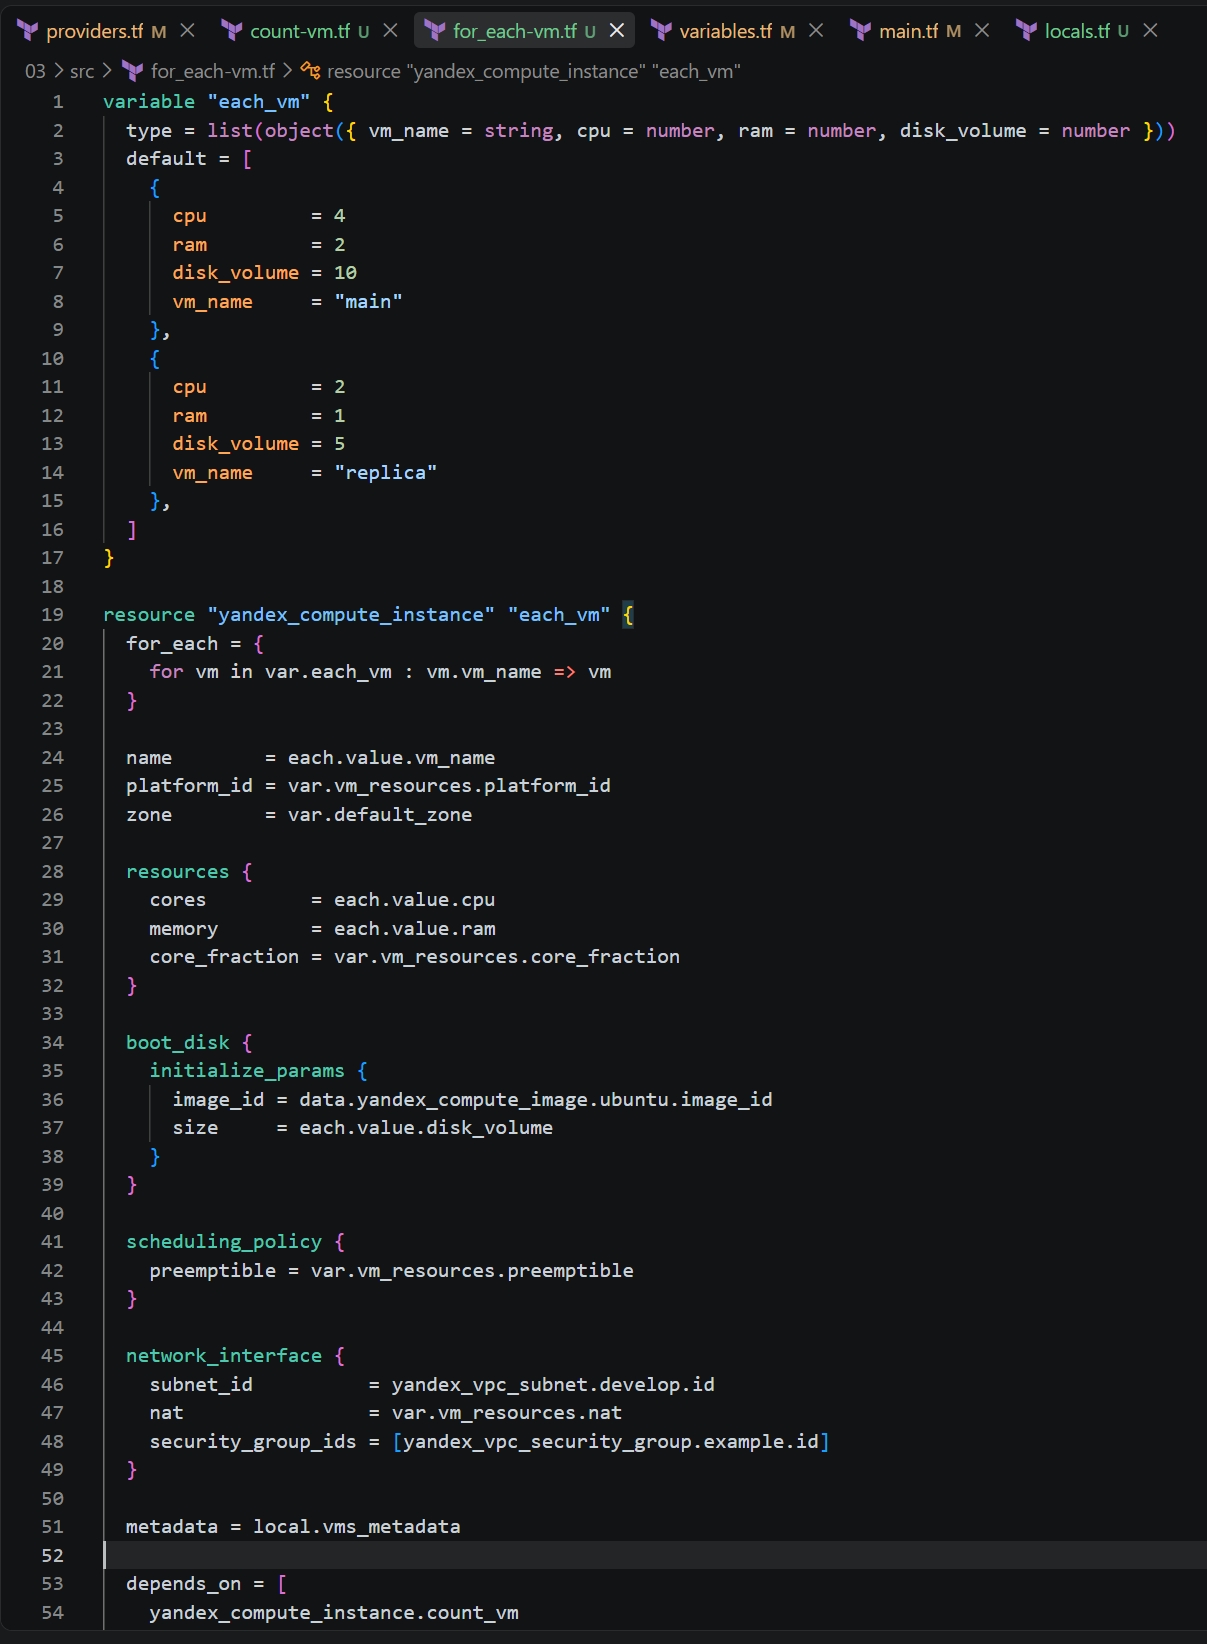
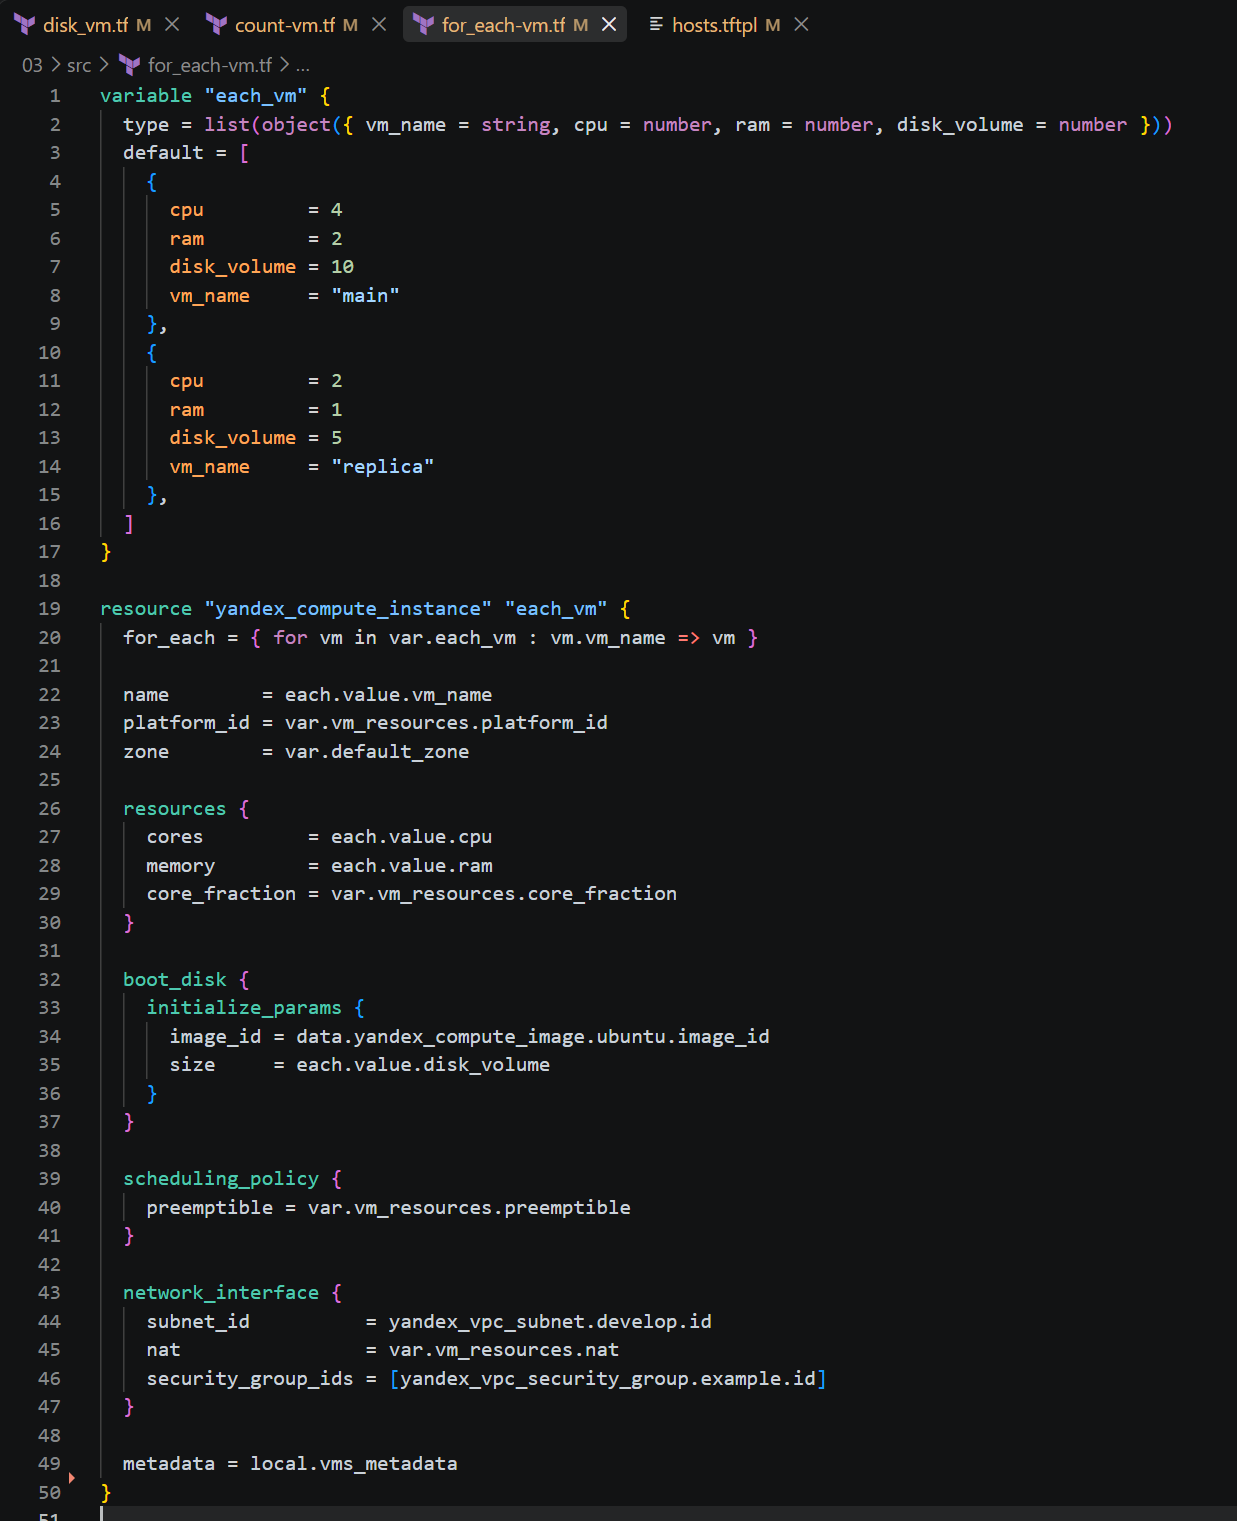
ter-03 practice fixes

diff --git a/ter-homeworks/03/README.md b/ter-homeworks/03/README.md
@@ -2,6 +2,8 @@
 
 ### [Ссылка на коммит с кодом](https://github.com/Flamer322/ter-homeworks/commit/ba14ba430a8503adba9b9eed7bca08348f3a0233)
 
+### [Ссылка на коммит с правками](https://github.com/Flamer322/ter-homeworks/commit/baf416bf256d889b31a04d6868ad3233096dc63a)
+
 ## Задача 1
 
 Созданная группа безопасности в веб-интерфейсе
@@ -10,11 +12,11 @@
 
 ## Задача 2
 
-Содержимое файла `count-vm.tf` с созданием ВМ при помощи `count`. ВМ добавлены в группу безопасности при помощи `network_interface.security_group_ids`
+Содержимое файла `count-vm.tf` с созданием ВМ при помощи `count`. ВМ добавлены в группу безопасности при помощи `network_interface.security_group_ids`. ВМ создаются после `for_each` ВМ при помощи `depends_on`
 
 ![image](images/task-2-1.png)
 
-Содержимое файла `for_each-vm.tf` с созданием ВМ при помощи `for_each`. ВМ создаются после `count_vm` ВМ при помощи `depends_on`
+Содержимое файла `for_each-vm.tf` с созданием ВМ при помощи `for_each`
 
 ![image](images/task-2-2.png)
 
@@ -96,3 +98,5 @@
 ![image](images/task-9-3.png)
 
 ### [Ссылка на коммит с кодом](https://github.com/Flamer322/ter-homeworks/commit/ba14ba430a8503adba9b9eed7bca08348f3a0233)
+
+### [Ссылка на коммит с правками](https://github.com/Flamer322/ter-homeworks/commit/baf416bf256d889b31a04d6868ad3233096dc63a)
